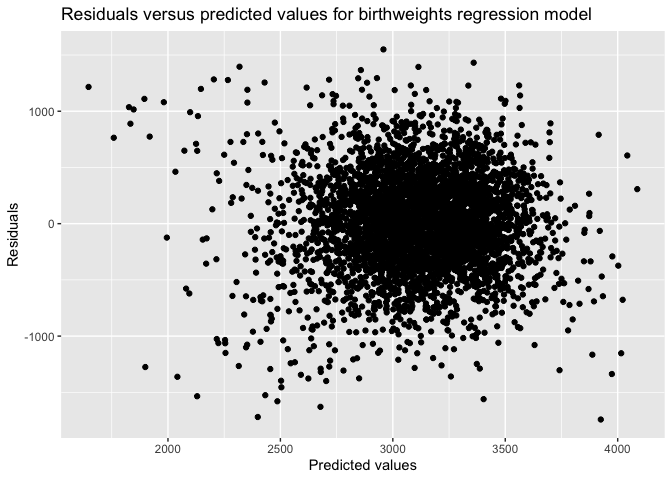
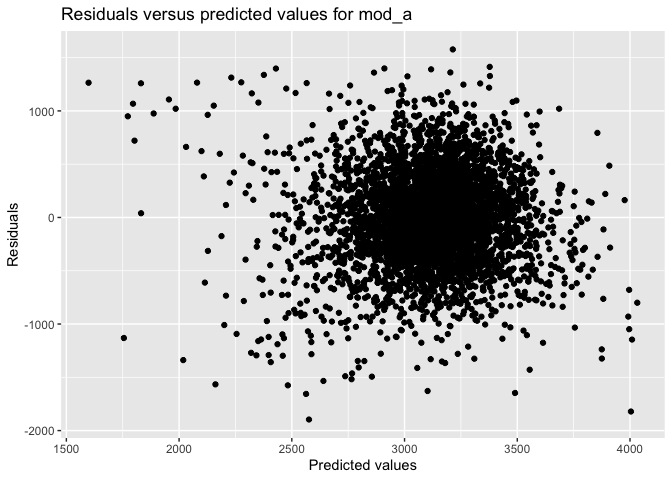
Finish adding text for Problem 3

diff --git a/p8105_hw6_jc5635.md b/p8105_hw6_jc5635.md
@@ -132,6 +132,8 @@ cities_log_reg %>%
 
 ## Problem 3
 
+We import, tidy, and check for missing values in `birthweights` data.
+
 ``` r
 birthweights = read_csv("data/birthweight.csv") %>%
   mutate(babysex = as.factor(babysex),
@@ -188,6 +190,14 @@ Data summary
 | smoken        |         0 |             1 |    4.15 |    7.41 |   0.00 |    0.00 |    0.00 |    5.00 |   60.0 | ▇▁▁▁▁ |
 | wtgain        |         0 |             1 |   22.08 |   10.94 | -46.00 |   15.00 |   22.00 |   28.00 |   89.0 | ▁▁▇▁▁ |
 
+We propose and report results for an estimated regression model
+(i.e. `mod_a`) with the following predictors that are hypothesized to be
+associated with birthweight (i.e. `bwt`): weight of the mother at
+delivery (i.e. `delwt`), family income (i.e. `fincome`), gestational age
+(i.e. `gaweeks`), existence of malformations (i.e. `malform`), age of
+the mother at delivery (i.e. `momage`), and average daily count of
+cigarettes consumed during pregnancy (i.e. `smoken`).
+
 ``` r
 mod_a = lm(bwt ~ delwt + fincome + gaweeks + malform + momage + smoken, data = birthweights)
 
@@ -206,18 +216,28 @@ mod_a %>%
 | momage      |    6.925 |     1.845 |     3.754 |   0.000 |
 | smoken      |   -7.775 |     0.913 |    -8.512 |   0.000 |
 
+We proceed in our modeling process by plotting residuals versus
+predicted values for `mod_a`.
+
 ``` r
 birthweights %>% 
   add_residuals(mod_a, "resid") %>% 
   add_predictions(mod_a, "fitted") %>% 
   ggplot(aes(x = fitted, y = resid)) + 
   geom_point() +
-  labs(title = "Residuals versus predicted values for birthweights regression model",
+  labs(title = "Residuals versus predicted values for mod_a",
        x = "Predicted values",
        y = "Residuals")
 ```
 
 ![](p8105_hw6_jc5635_files/figure-gfm/bw_plot_resid-1.png)<!-- -->
+
+Next, we use cross-validation to compare the predictive performance of
+`mod_a` with two alternative models: `mod_b`, which regresses
+birthweight on length of the baby at birth (i.e. `blength`) and
+gestational age; and `mod_c`, which regresses birthweight on head
+circumference of the baby at birth (i.e. `bhead`), length of the baby at
+birth, sex of the baby (i.e. `babysex`), and interactions.
 
 ``` r
 cv_df = crossv_mc(birthweights, 100) %>% 
@@ -238,12 +258,20 @@ cv_df = cv_df %>%
     rmse_mod_c = map2_dbl(mod_c, test, ~rmse(model = .x, data = .y)))
 ```
 
+Lastly, we plot the root mean squared errors (RMSEs) for the three
+models. We find that the performance of the proposed `mod_a` lags far
+behind that of `mod_b` and `mod_c`, and conclude that `mod_c` is the
+best model of the three in terms of predictive value.
+
 ``` r
 cv_df %>% 
   select(c(7:9)) %>% 
   pivot_longer(everything(), names_to = "model", values_to = "rmse", names_prefix = "rmse_") %>% 
   mutate(model = fct_inorder(model)) %>% 
-  ggplot(aes(x = model, y = rmse)) + geom_violin()
+  ggplot(aes(x = model, y = rmse)) + geom_violin() +
+  labs(title = "Predictive performance of regression models for birthweight",
+       x = "Model",
+       y = "Root mean squared error")
 ```
 
 ![](p8105_hw6_jc5635_files/figure-gfm/bw_comp_plot-1.png)<!-- -->
